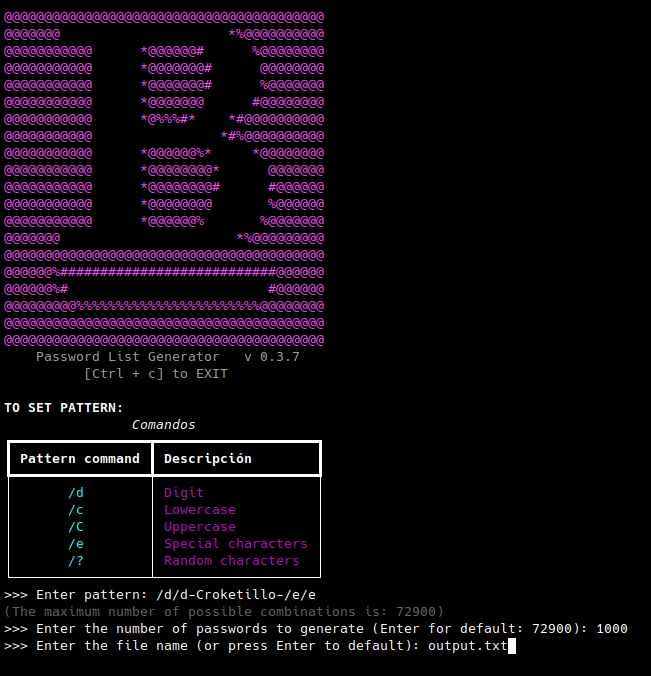
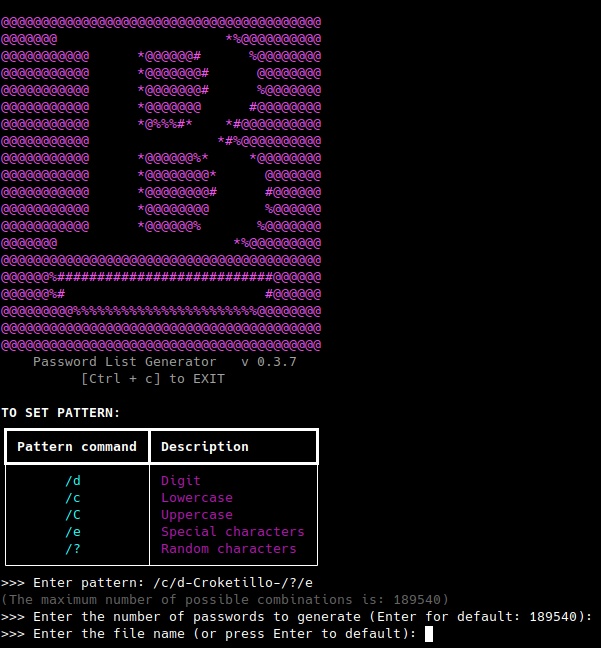
v0.3.8

Changed region(s): [[0.0, 0.0, 0.9884, 0.9877]]

diff --git a/belch/belch.py b/belch/belch.py
@@ -143,9 +143,9 @@ def main():
     from rich.table import Table
 
 
-    table = Table(title="Comandos")
+    table = Table()
     table.add_column("Pattern command", style="cyan", justify="center")
-    table.add_column("Descripción", style="magenta")
+    table.add_column("Description", style="magenta")
     table.add_row("/d", "Digit")
     table.add_row("/c", "Lowercase")
     table.add_row("/C", "Uppercase")

diff --git a/setup.py b/setup.py
@@ -82,7 +82,7 @@ def read(file_name=None, is_encoding=True, ignore_raises=False):
 
 setup(
     name='belch',
-    version='0.3.7',
+    version='0.3.8',
     description='Password list generator',
     long_description=read("README.rst"),
     url='https://github.com/croketillo/belch',
